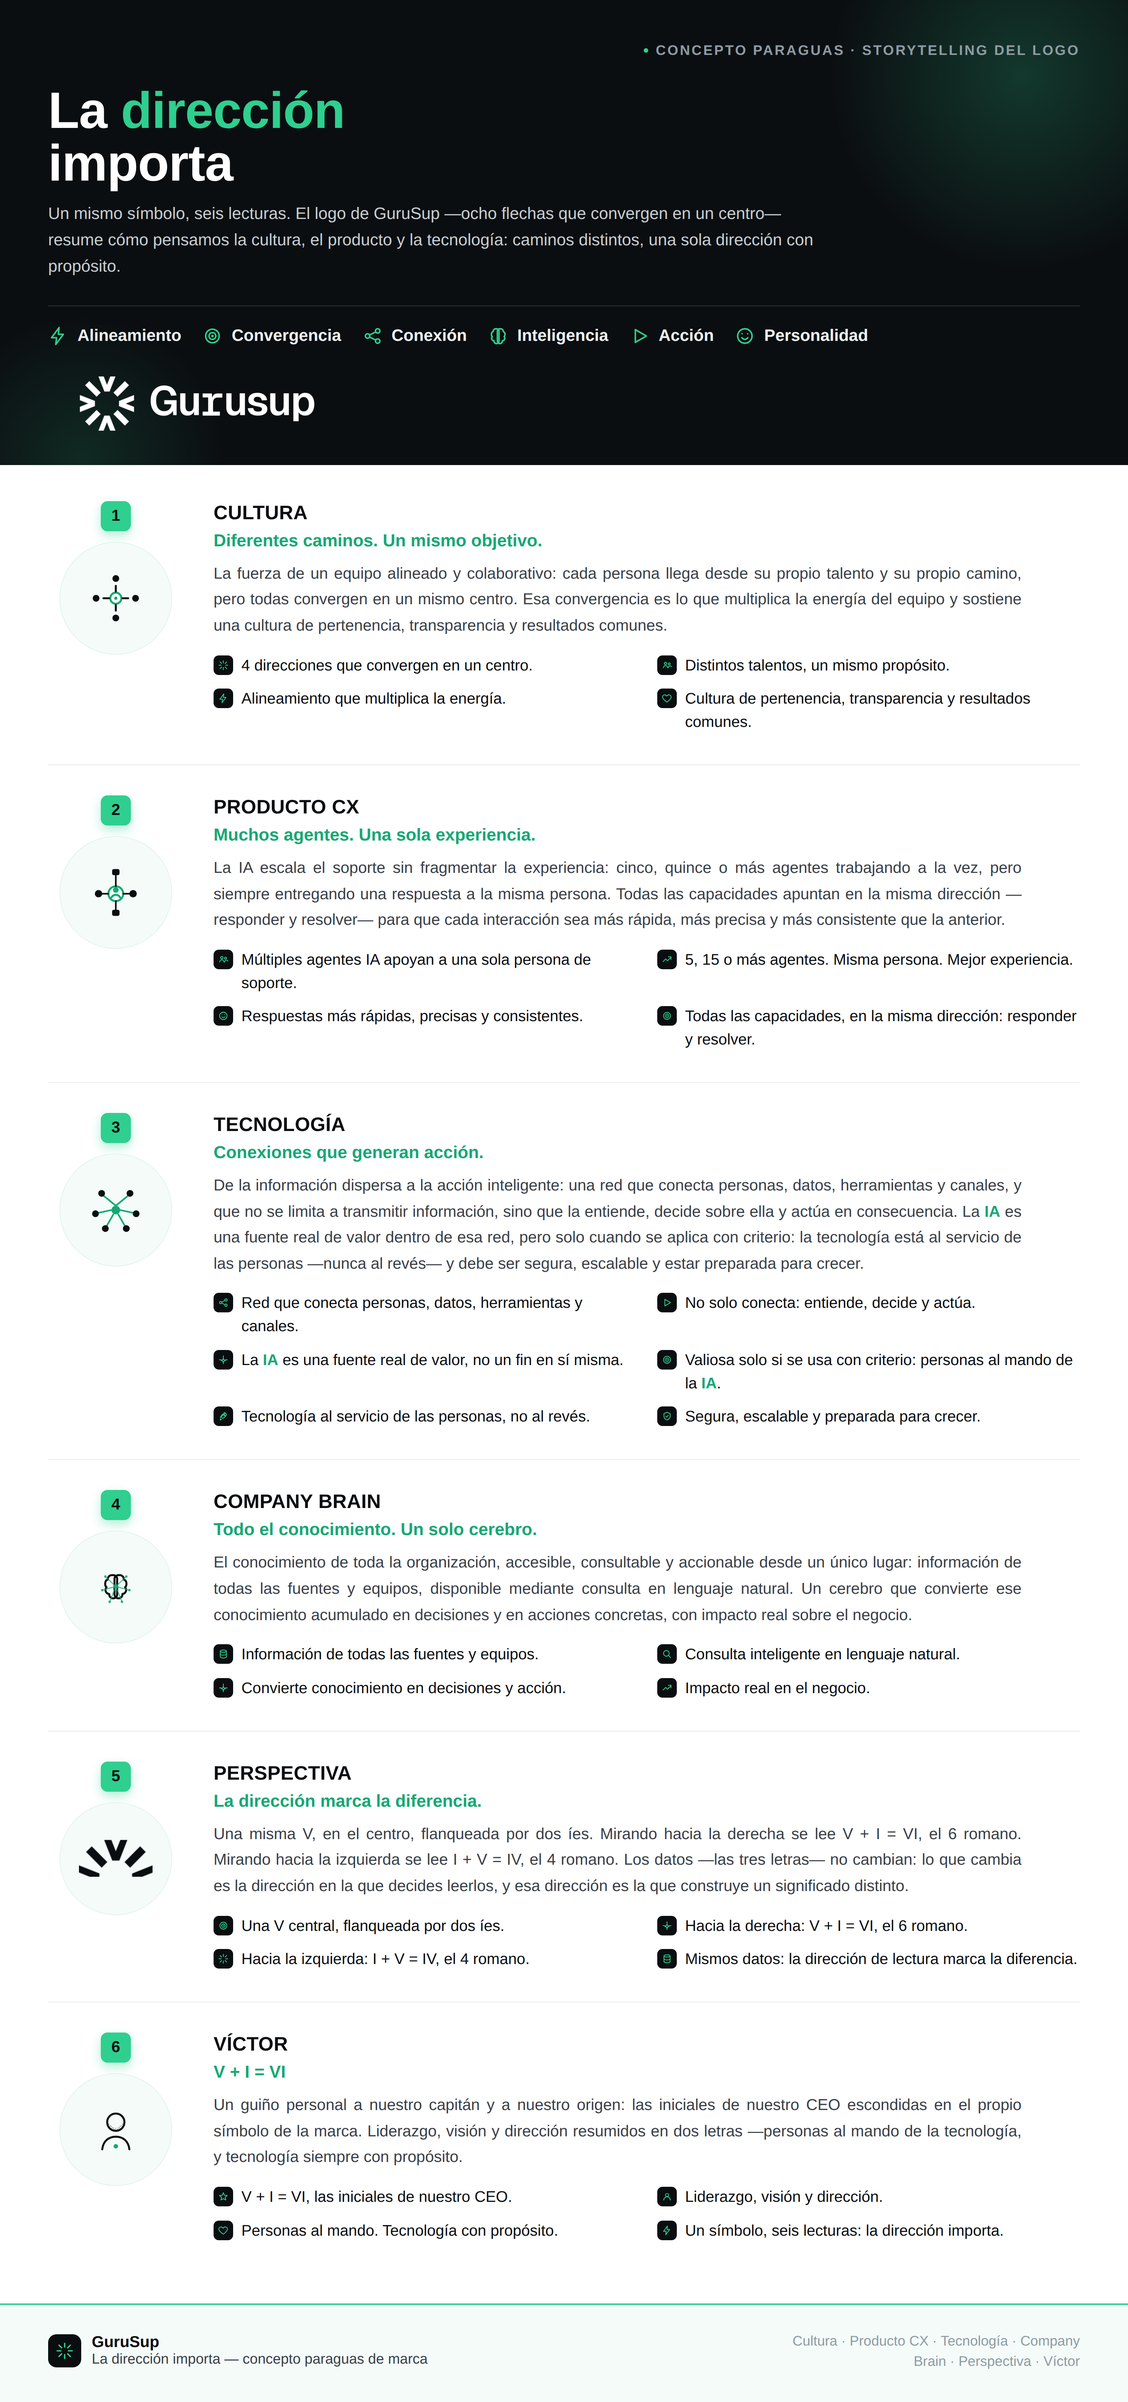
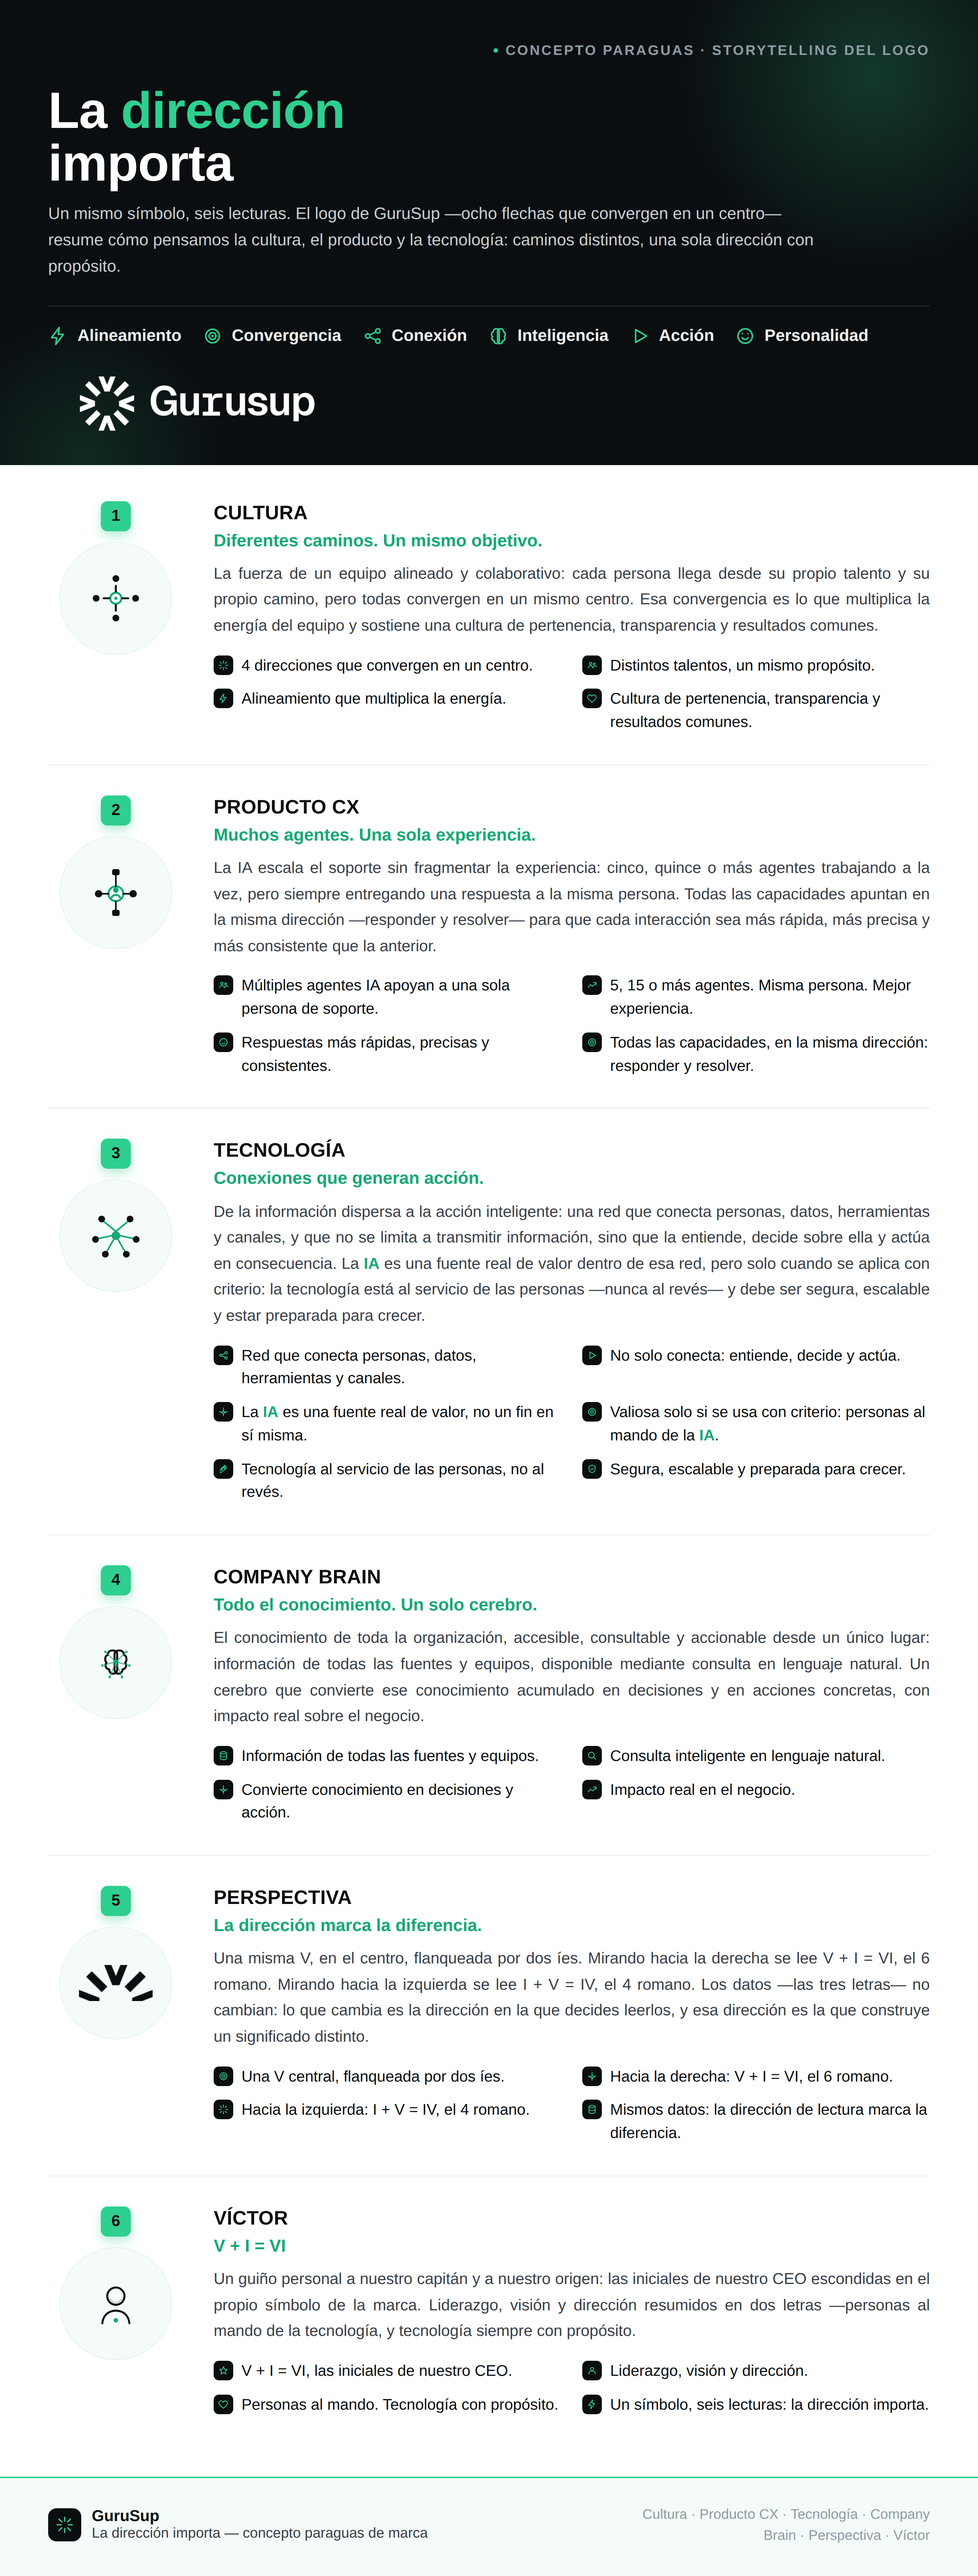
Reduce el ancho del documento (1500 -> 1300px)
Menos margen libre a la derecha del banner, manteniendo los 6
conceptos (Alineamiento...Personalidad) en una sola línea.

Claude-Session: https://claude.ai/code/session_019WmuM4uE7b9LjzLhY7VJCf

diff --git a/infografia/gurusup-direccion-importa.html b/infografia/gurusup-direccion-importa.html
@@ -16,7 +16,7 @@
   *{box-sizing:border-box;}
   html,body{margin:0;padding:0;}
   body{
-    width:1500px;
+    width:1300px;
     background:var(--paper);
     font-family:'Helvetica Neue',Arial,'Segoe UI',sans-serif;
     color:var(--ink);
